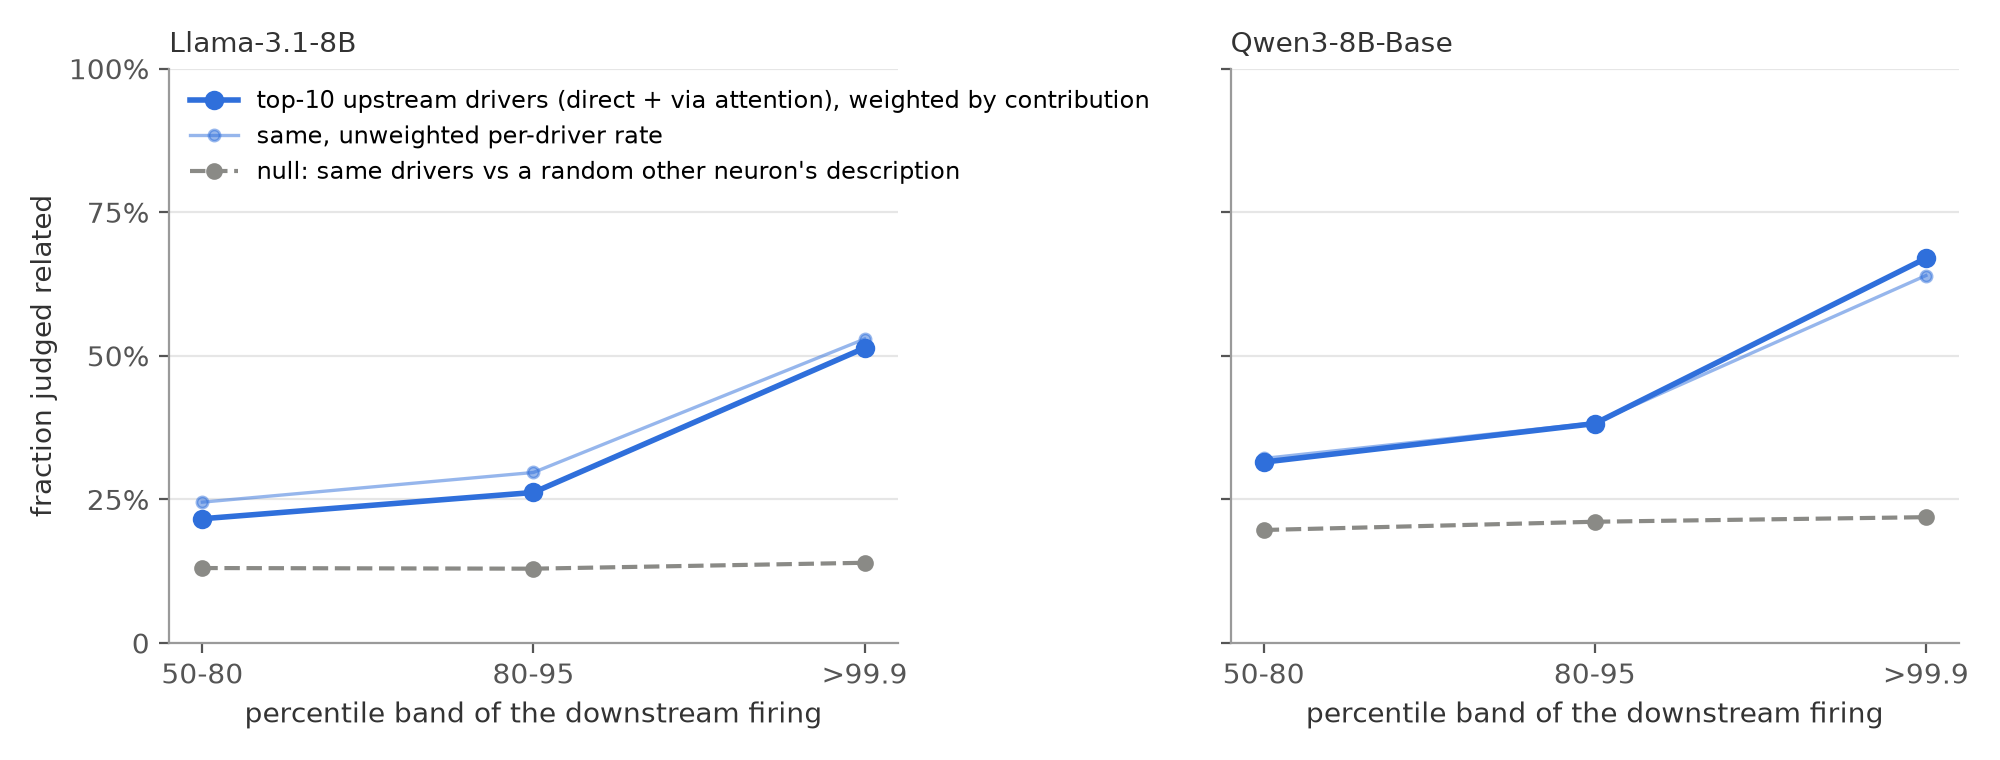
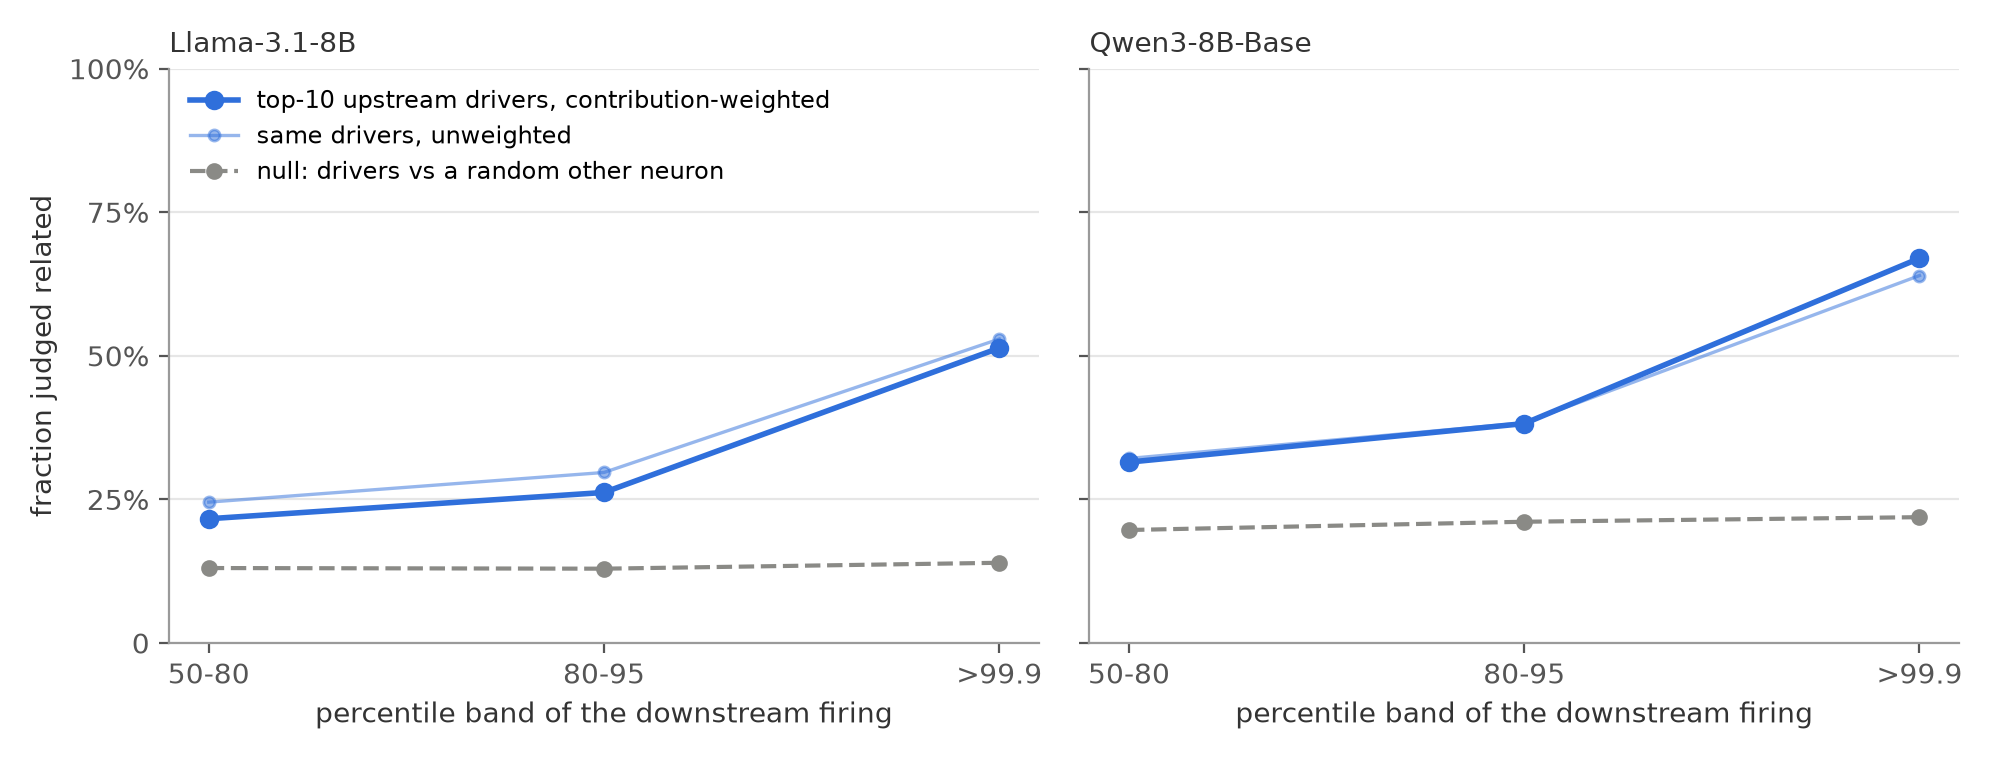
Figure legend fit

diff --git a/src/make_figures.py b/src/make_figures.py
@@ -18,7 +18,7 @@ for ax, (tag, label) in zip(axes, TAGS):
     s = rd(tag, 'semantic_summary.json')['all']; d = rd(tag, 'driver_summary_full.json')
     surf = [s['band0']['related'], s['band1']['related'], s['band2']['related'], s['band3']['related'], s['top']['related']]
     ax.plot(range(5), surf, '-o', color=ACC, lw=2, ms=5, label='surface: context vs label')
-    tx = [0, 1, 3]; ax.plot(tx, [d['b50_80_real_weighted']['contrib_weighted_related'], d['b80_95_real_weighted']['contrib_weighted_related'], d['strong_real_weighted']['contrib_weighted_related']], '-o', color=GREY, lw=2.5, ms=5, label='traced: top-10 upstream drivers vs label, contribution-weighted')
+    tx = [0, 1, 3]; ax.plot(tx, [d['b50_80_real_weighted']['contrib_weighted_related'], d['b80_95_real_weighted']['contrib_weighted_related'], d['strong_real_weighted']['contrib_weighted_related']], '-o', color=GREY, lw=2.5, ms=5, label='traced: top-10 drivers vs label, weighted')
     ax.plot(tx, [d['b50_80_null_weighted']['contrib_weighted_related'], d['b80_95_null_weighted']['contrib_weighted_related'], d['strong_null_weighted']['contrib_weighted_related']], '--o', color=GREY, lw=1.5, ms=4, label='null: drivers vs shuffled label')
     ax.axhline(s['random']['related'], ls=':', color=GREY2, lw=1.5, label='floor: random text')
     ax.set_xticks(range(5)); ax.set_xticklabels(bands); ax.set_ylim(0, 1); ax.set_yticks([0, .25, .5, .75, 1]); ax.set_yticklabels(['0', '25%', '50%', '75%', '100%'])
@@ -39,9 +39,9 @@ for which in ['surface', 'traced']:
             ax.set_xticks(range(5)); ax.set_xticklabels(['50-80', '80-95', '95-99', '>99.9', 'top 20\n(source of the\ndescription)']); ax.set_xlabel("percentile band of the neuron's positive-pole firings")
         else:
             tx = [0, 1, 2]; B = ['b50_80', 'b80_95', 'strong']
-            ax.plot(tx, [d[f'{b}_real_weighted']['contrib_weighted_related'] for b in B], '-o', color=ACC, lw=2, ms=6, label="top-10 upstream drivers (direct + via attention), weighted by contribution")
-            ax.plot(tx, [d[f'{b}_real']['related'] for b in B], '-o', color=ACC, lw=1.2, ms=4, alpha=0.5, label='same, unweighted per-driver rate')
-            ax.plot(tx, [d[f'{b}_null_weighted']['contrib_weighted_related'] for b in B], '--o', color=GREY, lw=1.5, ms=5, label="null: same drivers vs a random other neuron's description")
+            ax.plot(tx, [d[f'{b}_real_weighted']['contrib_weighted_related'] for b in B], '-o', color=ACC, lw=2, ms=6, label='top-10 upstream drivers, contribution-weighted')
+            ax.plot(tx, [d[f'{b}_real']['related'] for b in B], '-o', color=ACC, lw=1.2, ms=4, alpha=0.5, label='same drivers, unweighted')
+            ax.plot(tx, [d[f'{b}_null_weighted']['contrib_weighted_related'] for b in B], '--o', color=GREY, lw=1.5, ms=5, label='null: drivers vs a random other neuron')
             ax.set_xticks(tx); ax.set_xticklabels(['50-80', '80-95', '>99.9']); ax.set_xlabel("percentile band of the downstream firing")
         ax.set_ylim(0, 1); ax.set_yticks([0, .25, .5, .75, 1]); ax.set_yticklabels(['0', '25%', '50%', '75%', '100%']); ax.set_title(label, loc='left', fontsize=10, color='#333'); ax.grid(axis='y', color='#e6e6e6')
     axes[0].set_ylabel('fraction judged related'); axes[0].legend(frameon=False, fontsize=8.5, loc='upper left')
